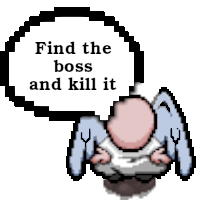
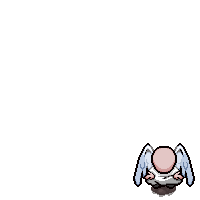
(|) change npc in first room

diff --git a/menu/sources/npc.c b/menu/sources/npc.c
@@ -7,18 +7,16 @@
 
 #include "../includes/motor.h"
 
-void init_npc(window *wndw, options *sprt)
-{
-    sfVector2f prems = {0, 0};
+void init_npc(window *wndw, options *sprt) {
+    sfVector2f prems = {275, 65};
     sfIntRect first = {0, 0, 1920, 1080};
     sprt->npc = sfSprite_create();
     sfSprite_setTexture(sprt->npc, sprt->text_npc, sfTrue);
     sfSprite_setPosition(sprt->npc, prems);
-    printf("coucocucoudifhvufhvfiuevhre");
+    sfSprite_setScale(sprt->npc, (sfVector2f) {2, 2});
 }
 
-void draw_npc(window *wndw, options *sprt, room *rm)
-{
+void draw_npc(window *wndw, options *sprt, room *rm) {
     if (rm->actual_room[0] == 4 && rm->actual_room[1] == 4)
         sfRenderWindow_drawSprite(wndw->window, sprt->npc, NULL);
 }
